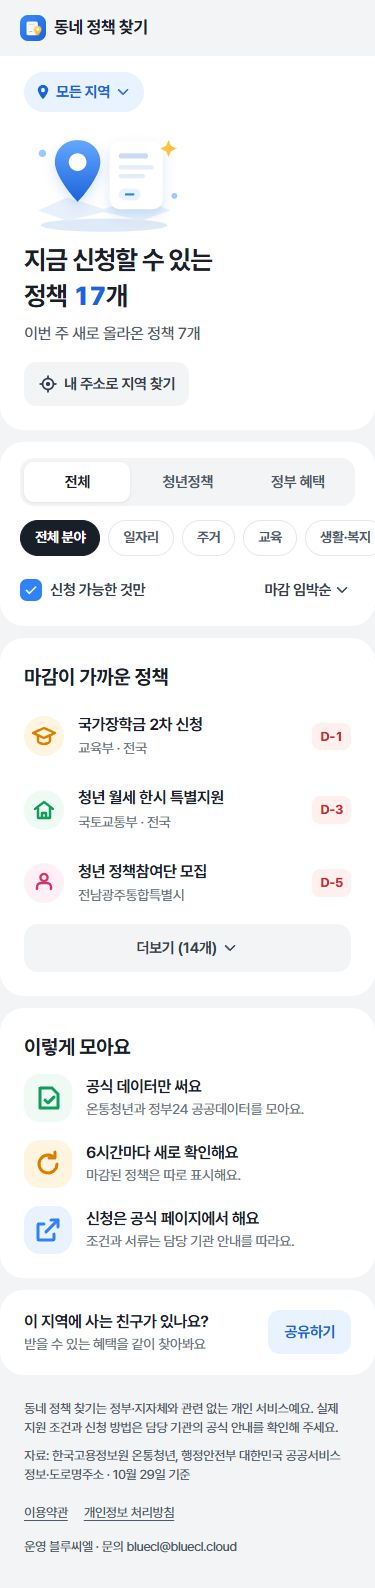
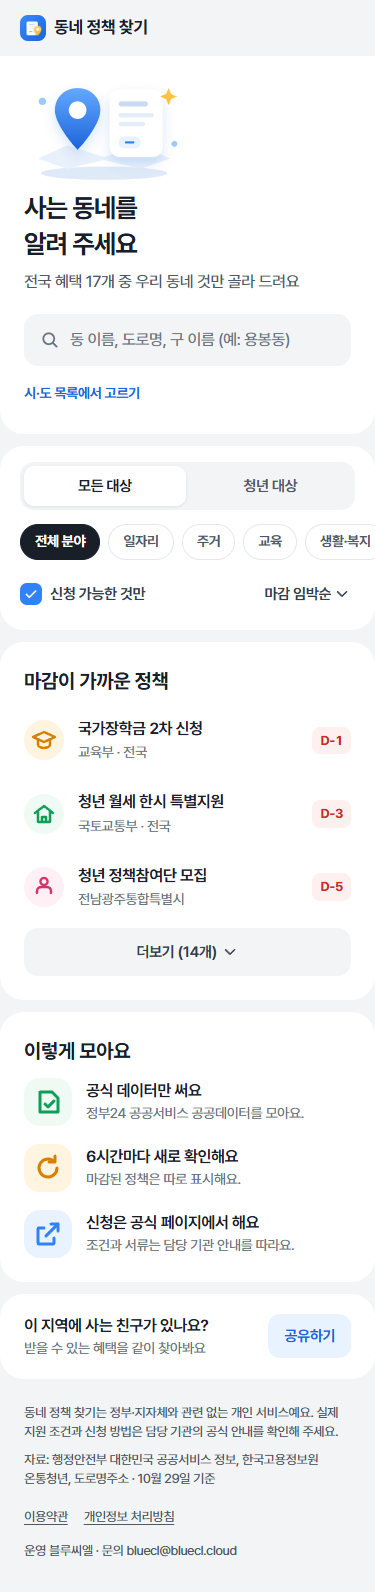
[Docs] 동네 찾기 화면 README와 스크린샷 갱신

diff --git a/README.md b/README.md
@@ -4,7 +4,7 @@
 
 지금 데이터는 정부24 공공서비스(혜택) API예요. "청년 대상"은 제목·대상·설명에 "청년"이 있는 혜택이에요(약 500건). 온통청년 청년정책 수집기는 만들어 두었지만 공공데이터포털 운영 승인이 나기 전까지는 키가 거부돼서 건너뛰어요. 승인되면 키만 넣으면 함께 모여요.
 
-<img src="docs/screenshots/mobile-home.png" width="220" alt="홈" /> <img src="docs/screenshots/mobile-region.png" width="220" alt="지역 고르기" /> <img src="docs/screenshots/mobile-detail.png" width="220" alt="정책 상세" />
+<img src="docs/screenshots/mobile-finder.png" width="220" alt="동네 찾기" /> <img src="docs/screenshots/mobile-town.png" width="220" alt="우리 동네 홈" /> <img src="docs/screenshots/mobile-detail.png" width="220" alt="정책 상세" />
 
 모든 기능은 무료예요. 인앱결제·광고는 없어요.
 
@@ -16,7 +16,7 @@ systemd 타이머(6시간) → scripts/collect.ts
   └ 대한민국 공공서비스(혜택) API (DATA_GO_KR_API_KEY) → server/sources/gov24.ts
   → 지역 코드를 지금 행정구역으로 맞춤(shared/regions.ts) → SQLite
 systemd 타이머(주 1회) → scripts/build-regions.ts → 도로명주소 API로 시·도/시·군·구 확인 → data/regions.json
-미니앱 → GET /api/policies · /api/regions · /api/config · /api/locate
+미니앱 → GET /api/policies · /api/regions · /api/config · /api/address
 ```
 
 - **지역 목록**: 고정 목록 대신 도로명주소 API(JUSO_API_KEY)로 이름과 법정동코드를 하나씩 확인해요. 옛 이름으로 검색했는데 새 이름이 나오면 그 이름도 더해요. 2026-10-29 기준 시·도 16곳, 시·군·구 230곳이에요(일반구가 있는 시는 시 하나로 묶어요).
@@ -24,7 +24,7 @@ systemd 타이머(주 1회) → scripts/build-regions.ts → 도로명주소 API
   - 인천 중구·동구 → 제물포구·영종구, 서구 → 서해구·검단구
   - 화성시 일반구(만세·효행·병점·동탄)
 - **옛 코드 처리**: 정책 데이터에 남은 옛 코드(29·46 → 12, 42 → 51, 45 → 52, 인천 28110 등)를 지금 지역으로 바꿔요.
-- **내 주소로 찾기**: `User.getConsentedData`로 토스에 등록된 주소를 동의를 받고 불러와요. 먼저 기기 안에서 시·군·구를 찾고, 나뉜 옛 구처럼 이름만으로 정할 수 없을 때만 기본 주소를 서버에 보내 도로명주소 API로 확인해요. 주소는 저장하지 않아요. 콘솔에 동의 항목을 만들고 키를 `VITE_TOSS_ADDRESS_KEY`에 넣어야 버튼이 보여요.
+- **동네 찾기(첫 화면)**: 동네를 고르기 전에는 첫 화면이 "사는 동네를 알려 주세요" 입력창이에요. 사용자가 직접 입력해서 토스 동의 화면이 필요 없어요. 시·군·구 이름("강남구", "수원", "포항 북구", 옛 이름 "광주")은 기기 안에서 바로 찾고, 동 이름·도로명("용봉동", "테헤란로")은 `/api/address`가 도로명주소 API로 찾아요(구 이름만 넣으면 주소 API가 E0006으로 거절해서 이름 검색은 기기 안에서 해요). 입력한 글자는 저장하지 않아요. 동네를 고르면 첫 화면이 동네 이름 / 신청 가능 개수 / 이번 주 새 정책으로 바뀌어요.
 - **신청 상태**: 온통청년은 신청기간 코드(0057001 특정기간·0057002 상시·0057003 마감)를 먼저 보고, 없으면 날짜로 판단해요. 정부 혜택은 `신청기한` 문장에서 날짜와 "상시"를 읽어요.
 - **키 처리**: 키가 없거나 거부되면 그 출처만 건너뛰고 저장된 목록은 그대로 둬요(타이머 실패로 쌓지 않아요). 상태는 `/api/policies`의 `sources`에 `ok / no-key / invalid-key / error`로 나와요.
 - **목록 제목**: 같은 이름의 정책(여러 구의 "청년 월세 지원" 등)은 지역이나 기관 이름을 붙여 줄마다 달라요. 첫 화면 목록은 3개만 보이고 나머지는 더보기예요.
@@ -56,13 +56,13 @@ npm run collect     # 실제 API로 한 번 수집
 npm run regions     # 지역 목록 다시 확인(shared/regions.json)
 ```
 
-[localhost:5175](http://localhost:5175)에서 확인해요. 브라우저에서 "내 주소로 찾기"는 옛 주소 예시(광주광역시 북구)를 써요.
+[localhost:5175](http://localhost:5175)에서 확인해요. 동 이름 검색은 `JUSO_API_KEY`가 있어야 해요.
 
 ## 검증
 
 ```powershell
-npm test            # 지역·정렬·출처 변환·API·수집·알림 단위 테스트 29개
-npm run test:e2e    # Edge 375·768·1440px 흐름 14개 (스크린샷 docs/screenshots 갱신)
+npm test            # 지역·정렬·출처 변환·API·수집·알림 단위 테스트 30개
+npm run test:e2e    # Edge 375·768·1440px 흐름 16개 (스크린샷 docs/screenshots 갱신)
 npm run build       # 출시용: 설정 검사 → 콘솔 스크린샷 3장 → 타입 검사 → 번들 → policy.ait
 npx ait deploy -m "<대표 커밋 메시지>"
 ```
@@ -71,7 +71,7 @@ npx ait deploy -m "<대표 커밋 메시지>"
 
 ## 배포 (BlueCL)
 
-현재 서버 릴리스 `policy-20261029010023`(2026-10-29 설치), 앱 번들 deploymentId `01a1852c-b7f2-7c0f-b0ff-c0a0977dcee7`. 정부 혜택 9,933건 수집 중(온통청년은 운영 승인 대기).
+현재 서버 릴리스 `policy-20261029011001`(2026-10-29 설치), 앱 번들 deploymentId `01a18535-b8f3-7c4c-a7e5-fcb487c3339b`. 정부 혜택 9,933건 수집 중(온통청년은 운영 승인 대기).
 
 `/home/solty/dev/policy/{releases,current,node,data,.env}`, API 포트 `18826`, 공개 경로 `https://bluecl.cloud/policy/api/`. Node는 gongmodu와 같은 `node` 링크(v24)를 써요.
 
@@ -116,4 +116,4 @@ deploy/              systemd · nginx · release.sh
 - 정부·지자체·토스와 관련 없는 개인 서비스예요. 앱 하단과 약관에 표시돼요.
 - 데이터 출처: 한국고용정보원 온통청년, 행정안전부 대한민국 공공서비스 정보·도로명주소. 화면 하단에 출처와 기준일을 보여 줘요. 비공식 스크래핑(예: 온통청년 홈페이지 내부 순위 주소)은 쓰지 않아요.
 - 정부 혜택은 `소관기관유형`·`소관기관명`으로 지역을 정해요. 중앙행정기관·공공기관은 전국, 광역시도는 시·도 전체, 시군구는 그 시·군·구예요. 이름에 지역이 없는 지자체 출연기관("(재)부천산업진흥원")은 같은 `소관기관코드`를 쓰는 지자체에서 지역을 배워요. 그래도 못 찾으면 잘못된 지역에 보이지 않게 목록에서 빼요(전체 10,942건 중 법인 대상 등 약 1,000건 제외). 신청기한은 `신청기한유형`(상시신청)과 문장 속 날짜(`20250901~20251001`, `2026. 3. 23. ~ 12. 11.` 등)를 읽어요.
-- 실기기 토스 앱에서 주소 동의·알림 동의·메시지 수신은 콘솔 설정 뒤 직접 확인해야 해요.
+- 실기기 토스 앱에서 알림 동의·메시지 수신은 콘솔 설정 뒤 직접 확인해야 해요.
